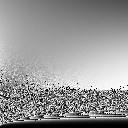
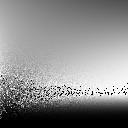
Base Kulla-Conty BRDF

Changed region(s): [[0.0, 0.4688, 1.0, 1.0], [0.2812, 0.5, 0.3125, 0.5312]]

diff --git a/homework4/src/engine.js b/homework4/src/engine.js
@@ -68,7 +68,7 @@ async function GAMES202Main() {
 
 	// Add Sphere
 	let img = new Image(); // brdfLUT
-	img.src = 'assets/ball/GGX_E_LUT.png';
+	img.src = 'assets/ball/GGX_E_MC_LUT.png';
 	var loadImage = async img => {
 		return new Promise((resolve, reject) => {
 			img.onload = async () => {
@@ -97,7 +97,7 @@ async function GAMES202Main() {
 
 	let metallic = 1.0;
 	let Sphere0Transform = setTransform(180, 60, 0, 180, 180, 180, 0, Math.PI, 0);
-	//loadGLTF(renderer, 'assets/ball/', 'ball', 'KullaContyMaterial', Sphere0Transform, metallic, 0.15);
+	loadGLTF(renderer, 'assets/ball/', 'ball', 'KullaContyMaterial', Sphere0Transform, metallic, 0.15);
 	let Sphere1Transform = setTransform(100, 60, 0, 180, 180, 180, 0, Math.PI, 0);
 	loadGLTF(renderer, 'assets/ball/', 'ball', 'KullaContyMaterial', Sphere1Transform, metallic, 0.35);
 	let Sphere2Transform = setTransform(20, 60, 0, 180, 180, 180, 0, Math.PI, 0);
@@ -108,7 +108,7 @@ async function GAMES202Main() {
 	loadGLTF(renderer, 'assets/ball/', 'ball', 'KullaContyMaterial', Sphere4Transform, metallic, 0.95);
 
 	let Sphere5Transform = setTransform(180, -60, 0, 180, 180, 180, 0, Math.PI, 0);
-	//loadGLTF(renderer, 'assets/ball/', 'ball', 'PBRMaterial', Sphere5Transform, metallic, 0.15);
+	loadGLTF(renderer, 'assets/ball/', 'ball', 'PBRMaterial', Sphere5Transform, metallic, 0.15);
 	let Sphere6Transform = setTransform(100, -60, 0, 180, 180, 180, 0, Math.PI, 0);
 	loadGLTF(renderer, 'assets/ball/', 'ball', 'PBRMaterial', Sphere6Transform, metallic, 0.35);
 	let Sphere7Transform = setTransform(20, -60, 0, 180, 180, 180, 0, Math.PI, 0);

diff --git a/lut-gen/Emu_MC.cpp b/lut-gen/Emu_MC.cpp
@@ -87,8 +87,8 @@ Vec3f IntegrateBRDF(Vec3f V, float roughness, float NdotV) {
       // TODO: To calculate (fr * ni) / p_o here
 		Vec3f i_dir = sampleList.directions[i];
 		float NdotL = std::max(i_dir.z, 0.0f);
-		Vec3f F = R0 + (Vec3f(1.0)-R0)*pow(1.0-NdotL, 5.0);
 		Vec3f h = normalize(i_dir+V);
+		Vec3f F = R0 + (Vec3f(1.0)-R0)*pow(1.0-std::max(dot(V,h),0.0f), 5.0);
 		float G = GeometrySmith(roughness, NdotV, NdotL);
 		float D = DistributionGGX(N, h, roughness);
 		Vec3f fr = F * G * D / (4.0 * NdotV * NdotL);
